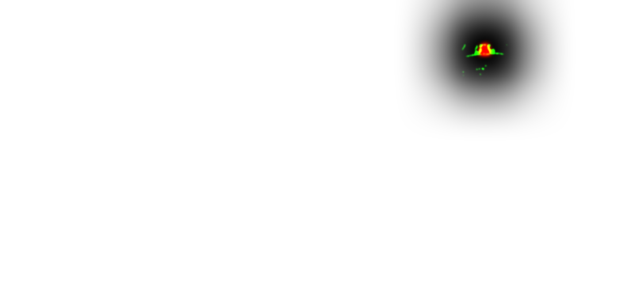
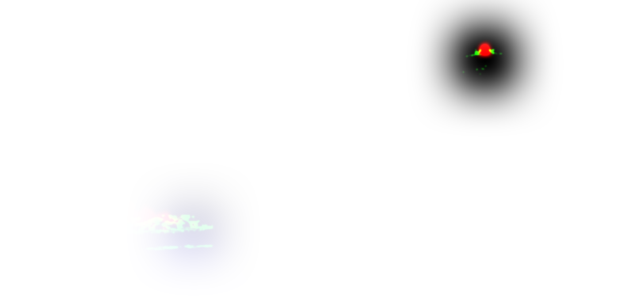
Rooms: find candles and magic glows, pool firelight on the floor
A candle's white-hot core counts as flame where orange paint rings it,
so the smallest fire sets the area a fire must have. Magic glows (blue
paint round a white core) are found first and kept out of the fire
search. Coals are read only from a flame's middle down, fires closer
than 1.5% of the picture join, and each fire's light gets a pool on the
floor in front of it. The smithy is cut again with them.

Claude-Session: https://claude.ai/code/session_01W5BePXiaXkqzr4br9g7qBv

Changed region(s): [[0.625, 0.0, 0.875, 0.2736], [0.25, 0.6993, 0.3438, 0.8514]]

diff --git a/tools/lib/room.ts b/tools/lib/room.ts
@@ -32,6 +32,8 @@ export interface RoomLights {
   fires: Fire[];
   /** Where sparks rise from: the biggest fire's coal bed (x from, x to, y), or null. */
   sparks: [number, number, number] | null;
+  /** The magic glows, in ROOM_SIZE pixels. */
+  orbs: Orb[];
 }
 
 /** A flame's core: white-yellow paint, brighter and yellower than the firelit stone round it. */
@@ -39,9 +41,32 @@ export function isFlame(r: number, g: number, b: number): boolean {
   return r >= 245 && g >= 175 && b <= 190 && r - b >= 70;
 }
 
-/** A coal's or an ember's paint: red-orange, glowing but not white. */
+/**
+ * A candle's or a lamp's core: near white or pale yellow. It is a flame only with a flame's
+ * orange beside it (`isFlameEdge`), which a lit window or a white robe has not.
+ */
+export function isWhiteHot(r: number, g: number, b: number): boolean {
+  return Math.min(r, g, b) >= 232 || (r >= 238 && g >= 212 && b <= 230 && r - b >= 18);
+}
+
+/** A flame's orange edge. */
+export function isFlameEdge(r: number, g: number, b: number): boolean {
+  return r >= 200 && g >= 80 && g <= 215 && b <= 140 && r - b >= 100;
+}
+
+/** A magic glow's paint: bright, and bluer than it is red or green (an orb, a crystal). */
+export function isMagic(r: number, g: number, b: number): boolean {
+  return b >= 170 && b - r >= 40 && b - g >= 15 && r + g + b >= 330;
+}
+
+/** A coal's or an ember's paint: deep red-orange, glowing but not white (firelit wood is browner). */
 export function isCoal(r: number, g: number, b: number): boolean {
-  return r >= 150 && g <= 150 && b <= 90 && r - g >= 60;
+  return r >= 170 && g <= 120 && b <= 70 && r - g >= 80;
+}
+
+/** The fewest pixels of flame that make a fire in a `w` × `h` picture: a far candle's. */
+export function minFireArea(w: number, h: number): number {
+  return Math.max(12, Math.round(w * h * 1.5e-5));
 }
 
 /** Box blur by running sums, edges held, `rad` pixels each way, in place on a copy. */
@@ -101,11 +126,25 @@ export function findFires(
   w: number,
   h: number,
   minArea: number,
+  notFlame?: Uint8Array,
 ): { fires: FirePiece[]; label: Int32Array } {
   const core = new Uint8Array(w * h);
+  const edge = new Float32Array(w * h);
   for (let i = 0; i < w * h; i++) {
-    if (isFlame(rgb[i * 3]!, rgb[i * 3 + 1]!, rgb[i * 3 + 2]!)) core[i] = 1;
+    const r = rgb[i * 3]!;
+    const g = rgb[i * 3 + 1]!;
+    const b = rgb[i * 3 + 2]!;
+    if (isFlame(r, g, b)) core[i] = 1;
+    else if (isFlameEdge(r, g, b)) edge[i] = 1;
   }
+  // A white or pale core within a few pixels of a flame's orange is a flame too: a candle.
+  const nearEdge = boxBlur(edge, w, h, Math.max(2, Math.round(Math.max(w, h) / 200)));
+  for (let i = 0; i < w * h; i++) {
+    if (!core[i] && nearEdge[i]! > 0 && isWhiteHot(rgb[i * 3]!, rgb[i * 3 + 1]!, rgb[i * 3 + 2]!)) {
+      core[i] = 1;
+    }
+  }
+  if (notFlame) for (let i = 0; i < w * h; i++) if (notFlame[i]) core[i] = 0;
   const label = new Int32Array(w * h);
   const pieces: FirePiece[] = [];
   const queue = new Int32Array(w * h);
@@ -144,7 +183,7 @@ export function findFires(
   }
   let fires = pieces.filter((f) => f.area >= minArea);
   // Pieces within a few pixels of each other are one fire.
-  const near = Math.round(Math.max(w, h) * 0.03);
+  const near = Math.round(Math.max(w, h) * 0.015);
   for (let merged = true; merged;) {
     merged = false;
     outer: for (let i = 0; i < fires.length; i++) {
@@ -182,51 +221,156 @@ async function shrink(m: Float32Array, w: number, h: number): Promise<Uint8Array
   return new Uint8Array(out.buffer, out.byteOffset, ROOM_SIZE.width * ROOM_SIZE.height);
 }
 
+/** A magic glow found on the picture: its middle and radius, and its colour, picture pixels. */
+export interface Orb {
+  at: [number, number];
+  r: number;
+  colour: [number, number, number];
+}
+
 /**
- * The lights of a cut picture (its RGB bytes, `w` × `h`, already the view box's shape),
- * as masks at ROOM_SIZE.
+ * The magic glows: pieces of bright blue paint holding near-white light, an orb's or a
+ * crystal's (a dim blue window holds none). Biggest first, at most four.
  */
-export async function findLights(rgb: Uint8Array, w: number, h: number): Promise<RoomLights> {
-  const minArea = Math.max(40, Math.round(w * h * 1.2e-4));
-  const { fires, label } = findFires(rgb, w, h, minArea);
-  const flame = new Float32Array(w * h);
-  const coal = new Float32Array(w * h);
-  const light = new Float32Array(w * h);
-  const others = new Float32Array(w * h);
-  const unit = Math.max(w, h) / 1448;
-  let coalBed = 0;
-  fires.slice(0, 4).forEach((f, i) => {
-    const m = new Float32Array(w * h);
-    for (let k = 0; k < w * h; k++) if (label[k] === f.n) m[k] = 1;
-    const soft = blur(m, w, h, Math.round(10 * unit));
-    for (let k = 0; k < w * h; k++) flame[k] = Math.max(flame[k]!, Math.min(1, soft[k]! * 4));
-    // The coals: red-orange paint in a band from the flames' top to under their foot.
-    const bx0 = Math.max(0, f.x0 - Math.round(40 * unit));
-    const bx1 = Math.min(w, f.x1 + Math.round(40 * unit));
-    const by0 = f.y0;
-    const by1 = Math.min(h, f.y1 + Math.round(50 * unit));
-    const c = new Float32Array(w * h);
-    let count = 0;
-    for (let y = by0; y < by1; y++) {
-      for (let x = bx0; x < bx1; x++) {
-        const k = y * w + x;
-        if (!label[k] && isCoal(rgb[k * 3]!, rgb[k * 3 + 1]!, rgb[k * 3 + 2]!)) {
-          c[k] = 1;
-          count++;
+export function findOrbs(rgb: Uint8Array, w: number, h: number, minArea: number): Orb[] {
+  const glow = new Uint8Array(w * h);
+  for (let i = 0; i < w * h; i++) {
+    if (isMagic(rgb[i * 3]!, rgb[i * 3 + 1]!, rgb[i * 3 + 2]!)) glow[i] = 1;
+  }
+  const seen = new Uint8Array(w * h);
+  const queue = new Int32Array(w * h);
+  const orbs: (Orb & { area: number })[] = [];
+  for (let s0 = 0; s0 < w * h; s0++) {
+    if (!glow[s0] || seen[s0]) continue;
+    let head = 0;
+    let tail = 0;
+    queue[tail++] = s0;
+    seen[s0] = 1;
+    let area = 0;
+    let white = 0;
+    let x0 = w;
+    let x1 = 0;
+    let y0 = h;
+    let y1 = 0;
+    const sum: [number, number, number] = [0, 0, 0];
+    while (head < tail) {
+      const k = queue[head++]!;
+      const x = k % w;
+      const y = (k - x) / w;
+      area++;
+      x0 = Math.min(x0, x);
+      x1 = Math.max(x1, x);
+      y0 = Math.min(y0, y);
+      y1 = Math.max(y1, y);
+      sum[0] += rgb[k * 3]!;
+      sum[1] += rgb[k * 3 + 1]!;
+      sum[2] += rgb[k * 3 + 2]!;
+      for (let dy = -2; dy <= 2; dy++) {
+        for (let dx = -2; dx <= 2; dx++) {
+          const xx = x + dx;
+          const yy = y + dy;
+          if (xx < 0 || yy < 0 || xx >= w || yy >= h) continue;
+          const q = yy * w + xx;
+          if (seen[q]) continue;
+          const r = rgb[q * 3]!;
+          const g = rgb[q * 3 + 1]!;
+          const b = rgb[q * 3 + 2]!;
+          // The white heart is part of the glow.
+          if (glow[q] || Math.min(r, g, b) >= 225) {
+            if (Math.min(r, g, b) >= 225) white++;
+            seen[q] = 1;
+            queue[tail++] = q;
+          }
         }
       }
     }
-    if (i === 0) coalBed = count;
-    const cs = blur(c, w, h, Math.round(2 * unit));
-    for (let k = 0; k < w * h; k++) coal[k] = Math.max(coal[k]!, Math.min(1, cs[k]! * 2));
-    // Its light over the room: wide and soft, a little wider for a bigger fire.
-    const size = Math.max(f.x1 - f.x0, f.y1 - f.y0);
-    const l = blur(m, w, h, Math.round(Math.min(260 * unit, Math.max(140 * unit, size * 2.2))));
-    let top = 0;
-    for (let k = 0; k < w * h; k++) top = Math.max(top, l[k]!);
-    const into = i === 0 ? light : others;
-    for (let k = 0; k < w * h; k++) into[k] = Math.max(into[k]!, l[k]! / (top || 1));
+    if (area < minArea || white < Math.max(4, area * 0.02)) continue;
+    orbs.push({
+      at: [(x0 + x1) / 2, (y0 + y1) / 2],
+      r: Math.max(x1 - x0, y1 - y0) / 2,
+      colour: sum.map((v) => Math.round(v / area)) as [number, number, number],
+      area,
+    });
+  }
+  orbs.sort((a, b) => b.area - a.area);
+  return orbs.slice(0, 4).map(({ at, r, colour }) => ({ at, r, colour }));
+}
+
+/**
+ * The lights of a cut picture (its RGB bytes, `w` × `h`, already the view box's shape),
+ * as masks at ROOM_SIZE. Each fire lights the wall round it and throws a pool on the floor
+ * in front of and under it, as a hearth does.
+ */
+export async function findLights(rgb: Uint8Array, w: number, h: number): Promise<RoomLights> {
+  const unit = Math.max(w, h) / 1448;
+  const minArea = minFireArea(w, h);
+  // An orb's white heart is no candle: the orbs take their pixels first.
+  const orbsFound = findOrbs(rgb, w, h, minArea * 4);
+  const orbPixels = new Uint8Array(w * h);
+  for (const o of orbsFound) {
+    const r = o.r * 1.4;
+    for (let y = Math.max(0, Math.floor(o.at[1] - r)); y < Math.min(h, o.at[1] + r); y++) {
+      for (let x = Math.max(0, Math.floor(o.at[0] - r)); x < Math.min(w, o.at[0] + r); x++) {
+        if (Math.hypot(x - o.at[0], y - o.at[1]) <= r) orbPixels[y * w + x] = 1;
+      }
+    }
+  }
+  const { fires, label } = findFires(rgb, w, h, minArea, orbPixels);
+  const index = new Map(fires.map((f, i) => [f.n, i] as const));
+  const flameAll = new Float32Array(w * h);
+  const coalAll = new Float32Array(w * h);
+  const big = new Float32Array(w * h);
+  const rest = new Float32Array(w * h);
+  for (let k = 0; k < w * h; k++) {
+    const i = index.get(label[k]!);
+    if (i === undefined) continue;
+    flameAll[k] = 1;
+    (i === 0 ? big : rest)[k] = 1;
+  }
+  // The coals: red-orange paint in a band from each fire's middle to under its foot.
+  let coalBed = 0;
+  fires.forEach((f, i) => {
+    const bx0 = Math.max(0, f.x0 - Math.round(40 * unit));
+    const bx1 = Math.min(w, f.x1 + Math.round(40 * unit));
+    const by1 = Math.min(h, f.y1 + Math.round(50 * unit));
+    for (let y = Math.round((f.y0 + f.y1) / 2); y < by1; y++) {
+      for (let x = bx0; x < bx1; x++) {
+        const k = y * w + x;
+        if (!label[k] && isCoal(rgb[k * 3]!, rgb[k * 3 + 1]!, rgb[k * 3 + 2]!)) {
+          if (!coalAll[k] && i === 0) coalBed++;
+          coalAll[k] = 1;
+        }
+      }
+    }
   });
+  const soft = blur(flameAll, w, h, Math.round(10 * unit));
+  const flame = soft.map((v) => Math.min(1, v * 4));
+  const coal = blur(coalAll, w, h, Math.round(2 * unit)).map((v) => Math.min(1, v * 2));
+  // A fire's light: a wide soft field round it, and a pool on the floor before and under
+  // it, wider than it is deep, as far down as the fire is wide.
+  const lightOf = (fs: FirePiece[], mask: Float32Array): Float32Array => {
+    const src = Float32Array.from(mask);
+    for (const f of fs) {
+      const size = Math.max(f.x1 - f.x0, f.y1 - f.y0, 8 * unit);
+      const cx = (f.x0 + f.x1) / 2;
+      const cy = f.y1 + size * 1.1;
+      const rx = size * 2.2;
+      const ry = size * 0.9;
+      for (let y = Math.max(0, Math.floor(cy - ry)); y < Math.min(h, Math.ceil(cy + ry)); y++) {
+        for (let x = Math.max(0, Math.floor(cx - rx)); x < Math.min(w, Math.ceil(cx + rx)); x++) {
+          const d = ((x - cx) / rx) ** 2 + ((y - cy) / ry) ** 2;
+          if (d < 1) src[y * w + x] = Math.max(src[y * w + x]!, (1 - d) * 0.35);
+        }
+      }
+    }
+    const size = fs.length ? Math.max(...fs.map((f) => Math.max(f.x1 - f.x0, f.y1 - f.y0))) : 0;
+    const l = blur(src, w, h, Math.round(Math.min(260 * unit, Math.max(110 * unit, size * 2))));
+    let top = 0;
+    for (const v of l) top = Math.max(top, v);
+    return l.map((v) => v / (top || 1));
+  };
+  const light = lightOf(fires.slice(0, 1), big);
+  const others = lightOf(fires.slice(1), rest);
   const sx = ROOM_SIZE.width / w;
   const sy = ROOM_SIZE.height / h;
   const scaled = fires.map((f) => ({
@@ -236,7 +380,12 @@ export async function findLights(rgb: Uint8Array, w: number, h: number): Promise
     y1: f.y1 * sy,
     area: f.area,
   }));
-  const big = scaled[0];
+  const first = scaled[0];
+  const orbs = orbsFound.map((o) => ({
+    at: [+(o.at[0] * sx).toFixed(1), +(o.at[1] * sy).toFixed(1)] as [number, number],
+    r: +(o.r * sx).toFixed(1),
+    colour: o.colour,
+  }));
   return {
     flame: await shrink(flame, w, h),
     coal: await shrink(coal, w, h),
@@ -245,9 +394,10 @@ export async function findLights(rgb: Uint8Array, w: number, h: number): Promise
     fires: scaled,
     // Sparks rise only off a bed of coals, not off a lamp's wick.
     sparks:
-      big && coalBed >= big.area * 0.5
-        ? [+big.x0.toFixed(1), +big.x1.toFixed(1), +big.y1.toFixed(1)]
+      first && coalBed >= fires[0]!.area * 0.5
+        ? [+first.x0.toFixed(1), +first.x1.toFixed(1), +first.y1.toFixed(1)]
         : null,
+    orbs,
   };
 }
 
@@ -274,7 +424,7 @@ export async function cutRoom(path: string, top?: number): Promise<CutRoom> {
   const y0 =
     top !== undefined
       ? Math.max(0, Math.min(H - band, top))
-      : chooseBand(H, band, findFires(full, W, H, Math.max(40, Math.round(W * H * 1.2e-4))).fires);
+      : chooseBand(H, band, findFires(full, W, H, minFireArea(W, H)).fires);
   const rgb = new Uint8Array(full.buffer, full.byteOffset + y0 * W * 3, W * band * 3);
   const lights = await findLights(rgb, W, band);
   const picture = await sharp(Buffer.from(rgb), { raw: { width: W, height: band, channels: 3 } })

diff --git a/tools/room.ts b/tools/room.ts
@@ -40,7 +40,11 @@ async function main(): Promise<void> {
   };
   await writeFile(files.picture, room.picture);
   await writeFile(files.lights, await lightsPng(room.lights));
-  const data = { sparks: room.lights.sparks, fires: room.lights.fires.length };
+  const data = {
+    sparks: room.lights.sparks,
+    fires: room.lights.fires.length,
+    orbs: room.lights.orbs,
+  };
   await writeFile(files.data, `${JSON.stringify(data, null, 2)}\n`);
 
   // The sheet: the picture, then its masks over it darkened, flames red, coals green, the
@@ -71,11 +75,11 @@ async function main(): Promise<void> {
       "The owner's ChatGPT image (OpenAI's terms: the output is the user's): owner holds full rights",
     files: [files.picture, files.lights, files.data],
     date: new Date().toISOString().slice(0, 10),
-    notes: `${l.fires.length} fire(s), ${l.sparks ? 'sparks off the biggest' : 'no sparks'}`,
+    notes: `${l.fires.length} fire(s), ${l.orbs.length} magic glow(s), ${l.sparks ? 'sparks off the biggest' : 'no sparks'}`,
   });
   await writeManifest(manifest);
   console.info(
-    `${files.picture}: rows ${room.top}-${room.top + room.band}, ${l.fires.length} fire(s), sparks ${JSON.stringify(l.sparks)}\n${sheet}`,
+    `${files.picture}: rows ${room.top}-${room.top + room.band}, ${l.fires.length} fire(s), ${l.orbs.length} orb(s), sparks ${JSON.stringify(l.sparks)}\n${sheet}`,
   );
 }
 

diff --git a/tools/lib/room.test.ts b/tools/lib/room.test.ts
@@ -30,7 +30,7 @@ describe('room lights', () => {
     const h = 185;
     const rgb = paint(w, h, [
       [60, 100, 100, 130, ...YELLOW], // the forge's left tongues
-      [106, 104, 140, 130, ...YELLOW], // its right tongues, past a log
+      [104, 104, 140, 130, ...YELLOW], // its right tongues, past a log
       [300, 20, 312, 34, ...YELLOW], // a lamp's flame
       [380, 150, 382, 152, ...YELLOW], // a glint on a helmet
     ]);
